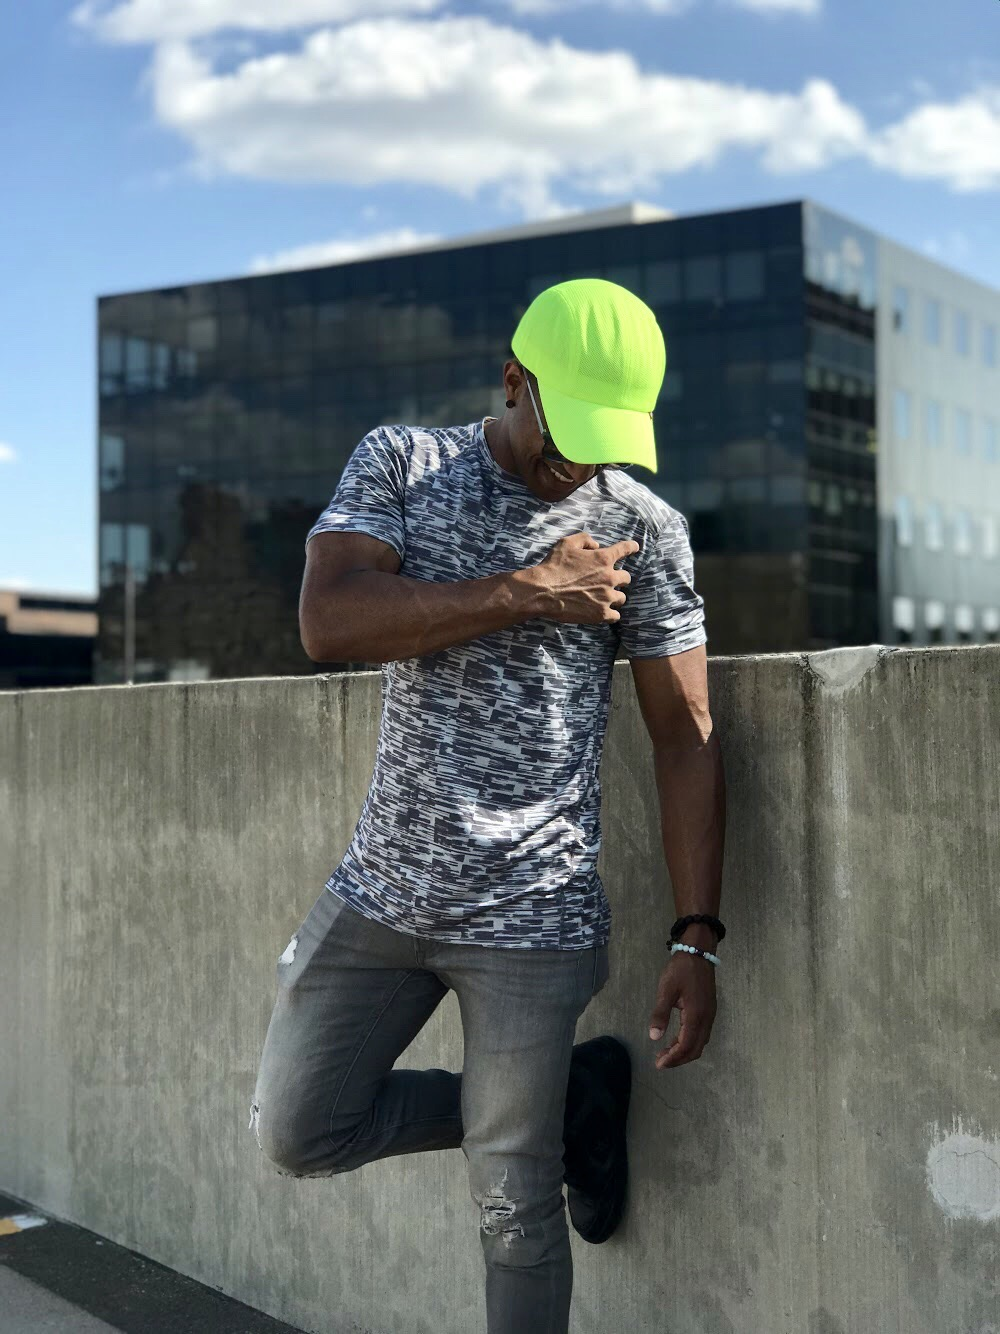
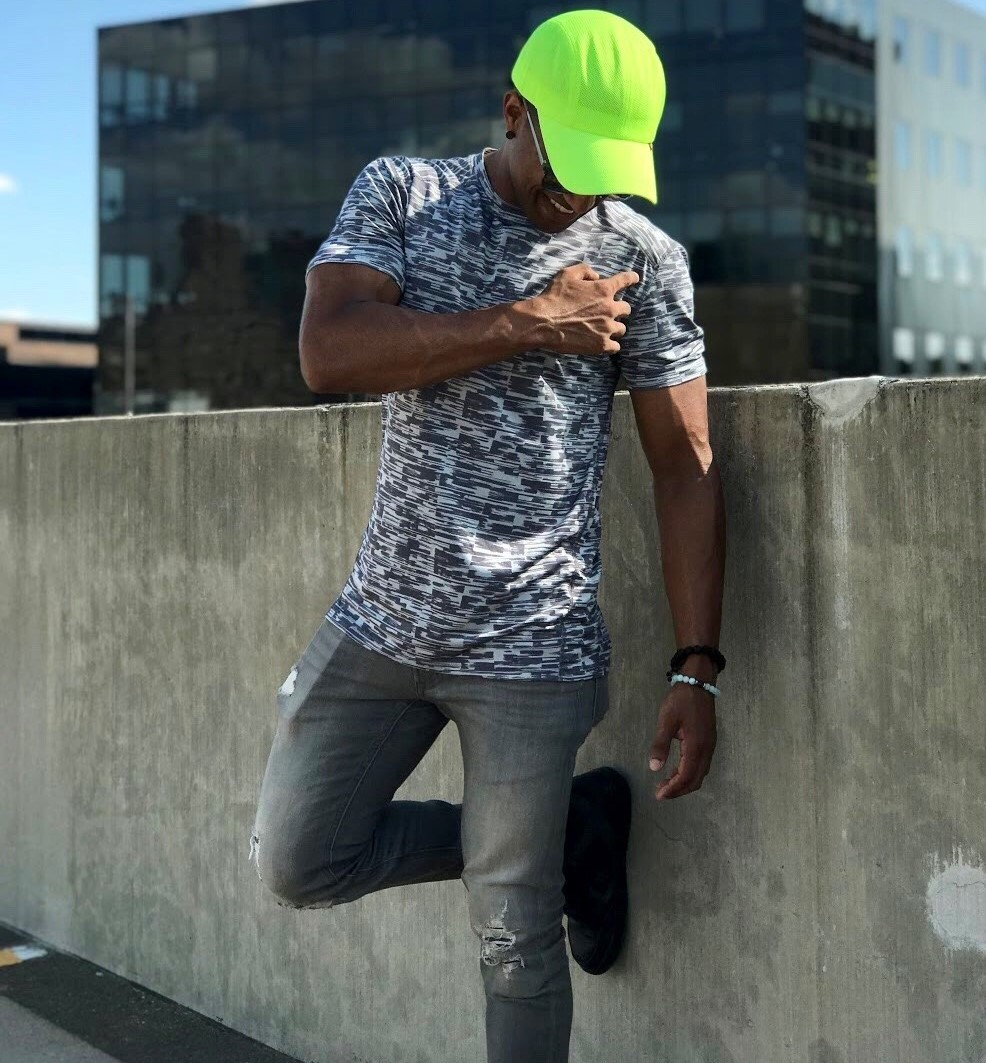
style changes

diff --git a/assets/css/style.css b/assets/css/style.css
@@ -70,7 +70,7 @@ h1, h2, h3, h4, h5, h6 {
   z-index: 9997;
   transition: all 0.5s;
   padding: 0 15px;
-  background: #040b14;
+  background: #000000d5;
   overflow-y: auto;
 }
 
@@ -78,7 +78,7 @@ h1, h2, h3, h4, h5, h6 {
   margin: 15px auto;
   display: block;
   width: 120px;
-  border: 8px solid #2c2f3f;
+  border: 8px solid #1f1f1f62;
 }
 
 #header .profile h1 {
@@ -99,7 +99,7 @@ h1, h2, h3, h4, h5, h6 {
 #header .profile .social-links a {
   font-size: 18px;
   display: inline-block;
-  background: #212431;
+  background: #1f1f1f62;
   color: #fff;
   line-height: 1;
   padding: 8px 0;
@@ -162,7 +162,7 @@ h1, h2, h3, h4, h5, h6 {
 .nav-menu a i {
   font-size: 24px;
   padding-right: 8px;
-  color: #6f7180;
+  color: #999caf;
 }
 
 .nav-menu a:hover, .nav-menu .active > a, .nav-menu li:hover > a {
@@ -212,9 +212,9 @@ h1, h2, h3, h4, h5, h6 {
 #hero {
   width: 100%;
   height: 100vh;
-  background: url("../img/tom-neon-hat.JPG") top center;
+  background: url("../img/macbook-blue-bang.jpg") top center;
   background-size: cover;
-  background-size: 30%;
+  background-size: 100%;
 }
 
 #hero:before {
@@ -296,7 +296,7 @@ section {
   margin-bottom: 20px;
   padding-bottom: 20px;
   position: relative;
-  color: #173b6c;
+  color: #1a1a1a;
 }
 
 .section-title h2::after {
@@ -320,7 +320,7 @@ section {
 .about .content h3 {
   font-weight: 700;
   font-size: 26px;
-  color: #173b6c;
+  color: #1a1a1a;
 }
 
 .about .content ul {
@@ -777,7 +777,7 @@ section {
   padding: 0 0 10px 60px;
   margin-bottom: 20px;
   font-size: 14px;
-  color: #173b6c;
+  color: #1a1a1a;
 }
 
 .contact .info .email p {
@@ -1064,14 +1064,14 @@ section {
 --------------------------------------------------------------*/
 #footer {
   padding: 15px;
-  color: #f4f6fd;
+  color: #00000000;
   font-size: 14px;
   position: fixed;
   left: 0;
   bottom: 0;
   width: 300px;
   z-index: 9999;
-  background: #040b14;
+  background: #000000d5;
 }
 
 #footer .copyright {

diff --git a/forms/contact.php b/forms/contact.php
@@ -7,7 +7,7 @@
   */
 
   // Replace contact@example.com with your real receiving email address
-  $receiving_email_address = 'contact@example.com';
+  $receiving_email_address = 'tchacko615@gmail.com';
 
   if( file_exists($php_email_form = '../assets/vendor/php-email-form/php-email-form.php' )) {
     include( $php_email_form );
